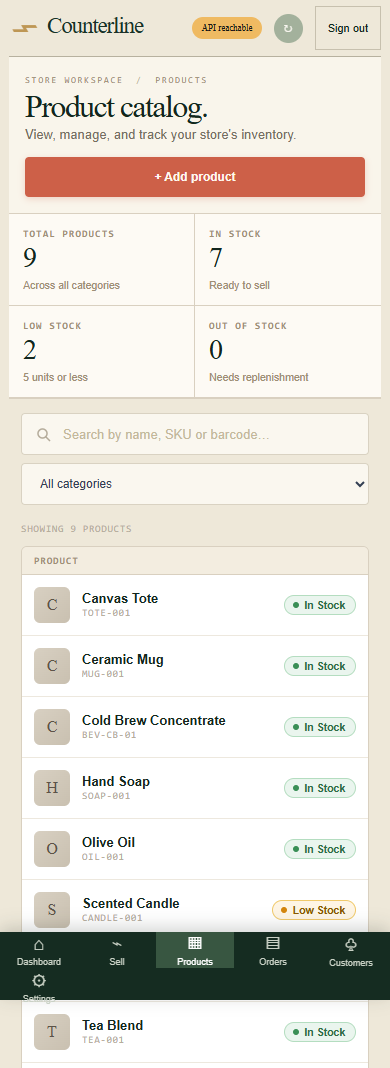
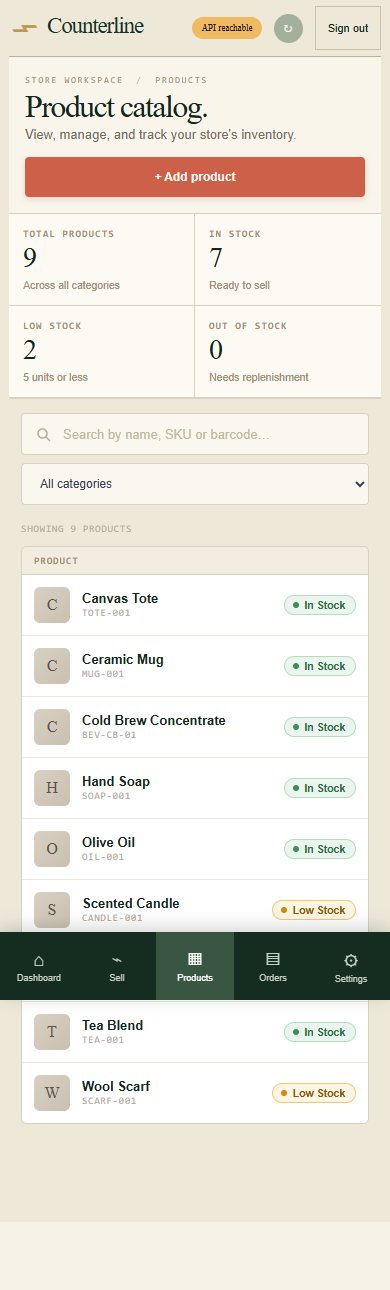
fix(catalog): allow adding a tax rate from the product form
Reported bug: the tax rate field on "Add product" only ever offers "Tax
exempt (0%)" — there is no way to type or otherwise add a tax rate.

Root cause: new stores get zero tax rates. 202609190002_remove_demo_
catalog_seed.sql dropped pos_seed_new_store, the only place that ever
inserted a pos_tax_rates row (as a side effect of demo-catalog seeding),
and nothing replaced it — there was no UI or API path to create a tax
rate at all, for any store created after that migration.

Fix mirrors the existing "+ Create new category" inline pattern already
on this same form:
- POST /catalog/products now accepts new_tax_rate_name +
  new_tax_rate_rate_bps and creates the tax rate inside the same
  transaction as the product, returning it in the response.
- Unlike pos_categories, pos_tax_rates has no unique(store_id, name)
  constraint to upsert against, so a retried/double-clicked submit is
  guarded by looking up an existing active rate with the same name
  first, instead of always inserting.
- ProductCatalogScreen.tsx adds a "+ Create new tax rate…" option with
  inline name + percent inputs, converts the percent to basis points
  the same way the discount editor does (Math.round(percent * 100)),
  and merges the created rate into local Dexie so it's immediately
  selectable for the next product too.

Verified for real: extended catalog-browser-check.ts (a real Playwright
browser against a real Postgres) to create a tax rate inline while
[…]

diff --git a/apps/web/src/screens/ProductCatalogScreen.tsx b/apps/web/src/screens/ProductCatalogScreen.tsx
@@ -22,6 +22,8 @@ interface FormState {
   categoryId: string
   newCategoryName: string
   taxRateId: string
+  newTaxRateName: string
+  newTaxRatePercent: string
   priceDisplay: string
   initialStock: string
 }
@@ -33,6 +35,8 @@ interface FieldErrors {
   price?: string
   initialStock?: string
   newCategoryName?: string
+  newTaxRateName?: string
+  newTaxRatePercent?: string
 }
 
 const EMPTY: FormState = {
@@ -42,6 +46,8 @@ const EMPTY: FormState = {
   categoryId: '',
   newCategoryName: '',
   taxRateId: '',
+  newTaxRateName: '',
+  newTaxRatePercent: '',
   priceDisplay: '',
   initialStock: '0',
 }
@@ -191,6 +197,13 @@ export function ProductCatalogScreen() {
     if (form.categoryId === '__new__' && !form.newCategoryName.trim()) {
       e.newCategoryName = 'Category name required.'
     }
+    if (form.taxRateId === '__new__') {
+      if (!form.newTaxRateName.trim()) e.newTaxRateName = 'Tax rate name required.'
+      const percent = Number(form.newTaxRatePercent)
+      if (!form.newTaxRatePercent.trim() || !Number.isFinite(percent) || percent < 0 || percent > 100) {
+        e.newTaxRatePercent = 'Enter a percent from 0 to 100.'
+      }
+    }
     if (!form.priceDisplay.trim()) {
       e.price = 'Price is required.'
     } else {
@@ -224,6 +237,9 @@ export function ProductCatalogScreen() {
         form.categoryId === '__new__' && form.newCategoryName.trim()
           ? form.newCategoryName.trim()
           : null
+      const finalTaxRateId = form.taxRateId && form.taxRateId !== '__new__' ? form.taxRateId : null
+      const newTaxRateName = form.taxRateId === '__new__' ? form.newTaxRateName.trim() : null
+      const newTaxRateBps = newTaxRateName ? Math.round(Number(form.newTaxRatePercent) * 100) : null
 
       const token = await accessToken()
       const resp = await fetch(`${configuredApiUrl()}/catalog/products`, {
@@ -237,7 +253,9 @@ export function ProductCatalogScreen() {
           barcode: form.barcode.trim() || null,
           category_id: finalCategoryId,
           new_category_name: newCatName,
-          tax_rate_id: form.taxRateId || null,
+          tax_rate_id: finalTaxRateId,
+          new_tax_rate_name: newTaxRateName,
+          new_tax_rate_rate_bps: newTaxRateBps,
           unit_price_cents: priceCents,
           initial_stock: initialStock,
         }),
@@ -257,13 +275,15 @@ export function ProductCatalogScreen() {
         }
         stock?: { product_id: string; current_stock: number }
         category?: { id: string; store_id: string; name: string; active: boolean }
+        taxRate?: { id: string; store_id: string; name: string; rate_bps: number; active: boolean }
         message?: string
       }
       if (!resp.ok) throw new Error(data.message ?? `Server error (${resp.status})`)
       if (!data.product) throw new Error('Server returned no product.')
 
-      await posDb.transaction('rw', [posDb.products, posDb.server_stock, posDb.categories], async () => {
+      await posDb.transaction('rw', [posDb.products, posDb.server_stock, posDb.categories, posDb.tax_rates], async () => {
         if (data.category) await posDb.categories.put({ ...data.category, parent_id: null })
+        if (data.taxRate) await posDb.tax_rates.put(data.taxRate)
         await posDb.products.put({ ...data.product!, unit_price_cents: data.product!.unit_price_cents })
         if (data.stock) {
           await posDb.server_stock.put({
@@ -713,7 +733,31 @@ export function ProductCatalogScreen() {
                           {t.name} — {(t.rate_bps / 100).toFixed(2)}%
                         </option>
                       ))}
+                    <option value="__new__">+ Create new tax rate…</option>
                   </select>
+                  {form.taxRateId === '__new__' && (
+                    <div className="pc-newtax">
+                      <input
+                        className={errs.newTaxRateName ? 'err' : ''}
+                        type="text"
+                        placeholder="Tax rate name (e.g. Sales tax)"
+                        value={form.newTaxRateName}
+                        onChange={(e) => setField('newTaxRateName', e.target.value)}
+                        maxLength={80}
+                        autoComplete="off"
+                      />
+                      <input
+                        className={errs.newTaxRatePercent ? 'err' : ''}
+                        type="text"
+                        inputMode="decimal"
+                        placeholder="Percent (e.g. 8.5)"
+                        value={form.newTaxRatePercent}
+                        onChange={(e) => setField('newTaxRatePercent', e.target.value)}
+                      />
+                    </div>
+                  )}
+                  {errs.newTaxRateName && <p className="pc-field-err">{errs.newTaxRateName}</p>}
+                  {errs.newTaxRatePercent && <p className="pc-field-err">{errs.newTaxRatePercent}</p>}
                 </div>
               </div>
 

diff --git a/apps/api/src/routes/catalog.ts b/apps/api/src/routes/catalog.ts
@@ -78,6 +78,23 @@ async function createProduct(req: import('express').Request, res: import('expres
     // categoryId and newCategoryName are mutually exclusive: new_category_name takes precedence
     const useExistingCategoryId = newCategoryName ? null : categoryId
 
+    // Optional: create a new tax rate by name + rate within the same transaction. Stores no
+    // longer get any tax rates at all on creation (202609190002_remove_demo_catalog_seed.sql
+    // dropped the only insert into pos_tax_rates that ever existed, which used to happen as a
+    // side effect of demo-catalog seeding) and there was no other way — UI or API — to create one,
+    // so every store's tax rate dropdown was permanently stuck at "Tax exempt (0%)".
+    const newTaxRateName = body.new_tax_rate_name && typeof body.new_tax_rate_name === 'string'
+      ? body.new_tax_rate_name.trim() : null
+    if (newTaxRateName && newTaxRateName.length > 80) {
+      throw new ApiError(422, 'validation_failed', 'Tax rate name must be 1–80 characters.')
+    }
+    const newTaxRateBps = newTaxRateName ? body.new_tax_rate_rate_bps : undefined
+    if (newTaxRateName && (!Number.isInteger(newTaxRateBps) || (newTaxRateBps as number) < 0 || (newTaxRateBps as number) > 10_000)) {
+      throw new ApiError(422, 'validation_failed', 'new_tax_rate_rate_bps must be an integer between 0 and 10000.')
+    }
+    // taxRateId and newTaxRateName are mutually exclusive: new_tax_rate_name takes precedence
+    const useExistingTaxRateId = newTaxRateName ? null : taxRateId
+
     // Validate price (integer cents)
     const rawPrice = body.unit_price_cents
     if (!Number.isInteger(rawPrice) || (rawPrice as number) < 0 || (rawPrice as number) > 1_000_000_000) {
@@ -128,11 +145,30 @@ async function createProduct(req: import('express').Request, res: import('expres
         if (!chk.rowCount) throw new ApiError(422, 'validation_failed', 'Category does not belong to this store.')
       }
 
-      // Verify tax rate belongs to store
-      if (taxRateId) {
+      // Create new tax rate if requested (inside transaction)
+      let resolvedTaxRateId: string | null = useExistingTaxRateId
+      let createdTaxRate: { id: string; store_id: string; name: string; rate_bps: number; active: boolean } | null = null
+      if (newTaxRateName) {
+        // Unlike pos_categories, pos_tax_rates has no unique(store_id, name) constraint to upsert
+        // against, so a retried/double-clicked submit would otherwise silently create a second
+        // identically-named rate — look for an existing active one with this exact name first.
+        const existingRate = await client.query(
+          'select id, store_id, name, rate_bps, active from public.pos_tax_rates where store_id=$1 and name=$2 and active=true',
+          [storeId, newTaxRateName],
+        )
+        const taxRes = existingRate.rows[0] ? existingRate : await client.query(
+          `insert into public.pos_tax_rates (store_id, name, rate_bps, active)
+           values ($1,$2,$3,true)
+           returning id, store_id, name, rate_bps, active`,
+          [storeId, newTaxRateName, newTaxRateBps],
+        )
+        resolvedTaxRateId = taxRes.rows[0].id as string
+        createdTaxRate = taxRes.rows[0] as { id: string; store_id: string; name: string; rate_bps: number; active: boolean }
+      } else if (useExistingTaxRateId) {
+        // Verify existing tax rate belongs to this store
         const chk = await client.query(
           'select 1 from public.pos_tax_rates where store_id=$1 and id=$2',
-          [storeId, taxRateId],
+          [storeId, useExistingTaxRateId],
         )
         if (!chk.rowCount) throw new ApiError(422, 'validation_failed', 'Tax rate does not belong to this store.')
       }
@@ -154,7 +190,7 @@ async function createProduct(req: import('express').Request, res: import('expres
            values ($1,$2,$3,$4,$5,$6,$7,true,1)
            returning id, store_id, sku, barcode, name, category_id, tax_rate_id,
                      unit_price_cents::text as unit_price_cents, active, revision::text as revision`,
-          [storeId, sku, rawBarcode, name, resolvedCategoryId, taxRateId, priceCents],
+          [storeId, sku, rawBarcode, name, resolvedCategoryId, resolvedTaxRateId, priceCents],
         )
       } catch (insertReason) {
         if (typeof insertReason === 'object' && insertReason !== null && 'code' in insertReason && (insertReason as { code: string }).code === '23505') {
@@ -210,6 +246,7 @@ async function createProduct(req: import('express').Request, res: import('expres
           unit_price_cents: priceCents, active: row.active, revision: 1 },
         stock: { product_id: row.id, current_stock: initialStock },
         ...(createdCategory ? { category: createdCategory } : {}),
+        ...(createdTaxRate ? { taxRate: createdTaxRate } : {}),
         checkpoint: nextPos,
       })
     } catch (reason) {

diff --git a/apps/api/test/catalog-browser-check.ts b/apps/api/test/catalog-browser-check.ts
@@ -120,6 +120,12 @@ try {
   await drawer.getByLabel('Barcode').fill('CB010001')
   await drawer.getByLabel('Category').selectOption({ label: '+ Create new category…' })
   await drawer.getByPlaceholder('Category name (e.g. Specialty Beverages)').fill('Cold Beverages')
+  // New stores get zero tax rates (202609190002_remove_demo_catalog_seed.sql removed the only
+  // insert that ever created one) and there was no way to add one until now — exercise it here,
+  // the same way a brand-new category is created inline above.
+  await drawer.getByLabel('Tax rate').selectOption({ label: '+ Create new tax rate…' })
+  await drawer.getByPlaceholder('Tax rate name (e.g. Sales tax)').fill('State sales tax')
+  await drawer.getByPlaceholder('Percent (e.g. 8.5)').fill('8.5')
   await drawer.getByLabel('Unit price').fill('12.50')
   await drawer.getByLabel('Initial stock').fill('10')
   const createResponse = page.waitForResponse(response => response.url().includes('/catalog/products') && response.request().method() === 'POST')
@@ -133,10 +139,16 @@ try {
   await expect(newRow.getByText('Cold Beverages')).toBeVisible()
 
   // 6. Verify the transaction actually committed: pos_products, pos_stock, and the change feed
-  const created = await database.query<{ id: string; unit_price_cents: string }>(
-    'select id, unit_price_cents::text as unit_price_cents from public.pos_products where store_id=$1 and sku=$2', [store, 'BEV-CB-01'])
+  const created = await database.query<{ id: string; unit_price_cents: string; tax_rate_id: string | null }>(
+    'select id, unit_price_cents::text as unit_price_cents, tax_rate_id from public.pos_products where store_id=$1 and sku=$2', [store, 'BEV-CB-01'])
   assert.equal(created.rows.length, 1, 'Product should be committed to pos_products')
   assert.equal(created.rows[0].unit_price_cents, '1250', 'Price must be stored as integer cents (12.50 -> 1250)')
+  assert(created.rows[0].tax_rate_id, 'Product should be linked to the newly created tax rate')
+  const newTaxRate = await database.query<{ name: string; rate_bps: number }>(
+    'select name, rate_bps from public.pos_tax_rates where id=$1', [created.rows[0].tax_rate_id])
+  assert.equal(newTaxRate.rows.length, 1, 'Tax rate should be committed to pos_tax_rates')
+  assert.equal(newTaxRate.rows[0].name, 'State sales tax')
+  assert.equal(newTaxRate.rows[0].rate_bps, 850, 'Percent must convert to basis points (8.5% -> 850 bps)')
   const productId = created.rows[0].id
   const stockRow = await database.query<{ current_stock: number }>(
     'select current_stock from public.pos_stock where store_id=$1 and product_id=$2', [store, productId])

diff --git a/apps/web/src/screens/product-catalog.css b/apps/web/src/screens/product-catalog.css
@@ -631,6 +631,29 @@
 .pc-newcat:focus { border-color: #cd6048; box-shadow: 3px 3px 0 #e4c276; }
 .pc-newcat.err   { border-color: #b34330; }
 
+/* New tax rate inline inputs (name + percent, side by side) */
+.pc-newtax {
+  display: flex;
+  gap: 8px;
+  margin-top: 6px;
+}
+.pc-newtax input {
+  border: 1px solid #d9d0c0;
+  background: #fcf9f0;
+  border-radius: 4px;
+  padding: 11px 13px;
+  font: 13px 'DM Sans', sans-serif;
+  color: #13261e;
+  outline: 0;
+  min-height: 42px;
+  box-sizing: border-box;
+  transition: border-color .14s, box-shadow .14s;
+}
+.pc-newtax input:first-child { flex: 2; }
+.pc-newtax input:last-child { flex: 1; }
+.pc-newtax input:focus { border-color: #cd6048; box-shadow: 3px 3px 0 #e4c276; }
+.pc-newtax input.err   { border-color: #b34330; }
+
 /* Drawer footer */
 .pc-drawer-foot {
   padding: 16px 24px 24px;
